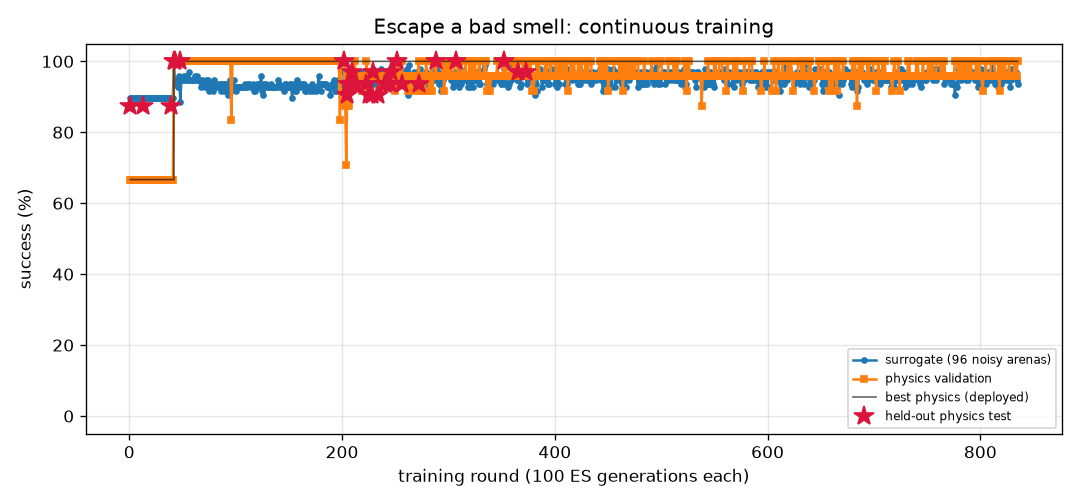
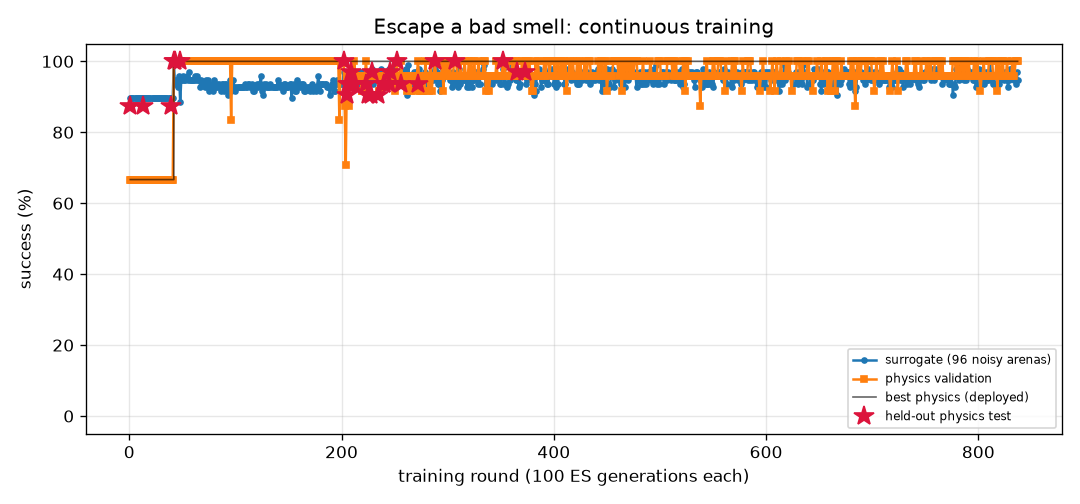
FlyLab: daily snapshot 2026-11-08
Daily entry in projects/09_flylab/training/daily/2026-11.md, plus 14 uncommitted training output file(s).

diff --git a/projects/09_flylab/training/light_avoid/REPORT.md b/projects/09_flylab/training/light_avoid/REPORT.md
@@ -1,14 +1,14 @@
 # Hide from light (`light_avoid`) — training report
 
-*Auto-generated by `train_brains.py`, last updated 2026-11-08T10:55:51.*
+*Auto-generated by `train_brains.py`, last updated 2026-11-08T11:30:01.*
 
 ![curve](curve.png)
 
 | | |
 |---|---|
-| rounds | 564 |
-| ES generations | 56400 |
-| physics runs | 13808 |
+| rounds | 568 |
+| ES generations | 56800 |
+| physics runs | 13904 |
 | status | **optimal** |
 | best brain | round 159: physics validation **100%** on 24 arenas, surrogate 100% |
 | held-out physics test | **100%** on 32 unseen arenas (95% CI 89%-100%) (errors: [14.4, 56.1, 58.0, 57.9, 57.5, 14.0, 14.4, 56.6, 56.8, 13.3, 14.1, 56.6, 57.6, 13.1, 57.3, 55.9, 57.2, 55.0, 55.2, 53.9, 55.2, 12.4, 53.8, 53.7, 14.1, 13.7, 55.0, 57.8, 56.2, 13.1, 52.8, 56.5]) |
@@ -17,10 +17,6 @@ Physics error per arena: mm gained away from source (> 6 without first approachi
 
 | round | level | gens | sigma | surrogate | physics val | val errors | test | note |
 |---:|---:|---:|---:|---:|---:|---|---:|---|
-| 525 | 3 | 52500 | 0.024 | 100% | 100% | [52.4, 54.2, 54.1, 52.0, 52.9, 52.4, 53.1, 14.5, 37.5, 13.6, 47.4, 52.6, 14.4, 53.3, 54.2, 51.7, 14.2, 53.3, 54.6, 14.4, 50.6, 49.0, 52.9, 52.0] |  |  |
-| 526 | 3 | 52600 | 0.024 | 99% | 100% | [33.9, 33.6, 34.0, 33.9, 31.3, 33.9, 34.9, 14.5, 12.9, 13.4, 8.1, 31.4, 14.4, 34.8, 35.0, 33.9, 14.2, 32.3, 35.2, 14.4, 32.6, 25.5, 34.7, 31.3] |  |  |
-| 527 | 3 | 52700 | 0.025 | 98% | 96% | [43.3, 44.1, 43.7, 44.0, 47.4, 43.4, 41.6, 14.5, 13.0, 13.4, 10.2, 47.4, 14.4, 4.1, 43.7, 43.1, 14.2, 47.1, 44.7, 14.4, 45.0, 11.2, 42.3, 47.1] |  | restart from best |
-| 528 | 3 | 52800 | 0.024 | 100% | 100% | [48.8, 50.8, 51.0, 48.8, 46.8, 48.2, 50.9, 14.5, 45.4, 13.3, 49.8, 46.7, 14.4, 45.4, 50.9, 48.5, 14.2, 47.9, 50.7, 14.4, 49.0, 47.9, 50.5, 45.7] |  |  |
 | 529 | 3 | 52900 | 0.024 | 100% | 100% | [54.4, 55.5, 55.2, 53.9, 55.2, 51.8, 53.8, 14.5, 38.3, 13.3, 54.5, 55.0, 14.4, 54.1, 55.4, 52.8, 14.2, 55.6, 55.8, 14.4, 53.7, 54.5, 53.7, 54.5] |  |  |
 | 530 | 3 | 53000 | 0.024 | 97% | 100% | [39.7, 40.8, 41.0, 39.2, 36.6, 39.3, 40.9, 14.5, 13.0, 13.4, 10.1, 36.1, 14.4, 28.3, 41.1, 40.1, 14.2, 37.4, 41.0, 14.4, 40.2, 11.2, 40.3, 35.3] |  |  |
 | 531 | 3 | 53100 | 0.026 | 98% | 96% | [46.6, 47.2, 47.4, 47.0, 43.6, 46.7, 47.2, 14.5, 13.0, 13.4, 10.2, 43.2, 14.4, 8.0, 47.4, 45.2, 14.2, 44.6, 47.4, 14.4, 44.4, 11.3, 46.8, 42.2] |  | restart from best |
@@ -57,3 +53,7 @@ Physics error per arena: mm gained away from source (> 6 without first approachi
 | 562 | 3 | 56200 | 0.024 | 100% | 100% | [57.0, 57.0, 56.8, 55.7, 58.5, 54.3, 55.1, 14.5, 53.8, 13.3, 57.5, 58.4, 14.4, 56.3, 57.6, 56.7, 14.2, 59.1, 58.1, 14.4, 55.1, 57.4, 55.2, 58.5] |  |  |
 | 563 | 3 | 56300 | 0.024 | 100% | 100% | [55.0, 56.2, 55.9, 54.9, 56.3, 55.1, 54.6, 14.5, 12.9, 13.4, 51.9, 56.1, 14.4, 54.3, 56.1, 54.5, 14.2, 56.6, 56.4, 14.4, 53.8, 53.0, 54.3, 55.6] |  | restart from best |
 | 564 | 3 | 56400 | 0.024 | 100% | 100% | [38.1, 35.5, 35.0, 36.8, 37.8, 35.8, 32.1, 14.5, 36.9, 13.3, 37.8, 38.2, 14.4, 37.8, 36.8, 36.8, 14.2, 37.7, 37.4, 14.4, 36.9, 38.1, 33.9, 38.0] |  |  |
+| 565 | 3 | 56500 | 0.024 | 97% | 100% | [44.7, 48.6, 48.1, 44.8, 49.6, 47.5, 46.0, 14.5, 49.3, 13.0, 48.3, 49.8, 14.4, 49.5, 48.2, 8.3, 14.2, 49.9, 48.5, 14.4, 8.5, 48.3, 46.3, 49.4] |  |  |
+| 566 | 3 | 56600 | 0.026 | 96% | 100% | [45.7, 59.7, 59.5, 10.1, 58.2, 56.1, 58.6, 14.5, 54.7, 13.3, 58.3, 57.9, 14.4, 56.2, 59.6, 8.9, 14.2, 58.8, 59.9, 14.4, 8.7, 58.6, 58.3, 57.2] |  |  |
+| 567 | 3 | 56700 | 0.026 | 93% | 96% | [6.2, 49.4, 49.0, 7.3, 48.6, 4.5, 47.9, 14.5, 46.3, 13.2, 47.1, 48.3, 14.4, 47.8, 49.4, 9.0, 14.2, 49.0, 49.8, 14.4, 8.7, 47.5, 47.5, 47.7] |  | restart from best |
+| 568 | 3 | 56800 | 0.024 | 100% | 100% | [47.0, 47.2, 46.9, 47.1, 50.3, 47.7, 44.9, 14.5, 39.5, 13.4, 49.0, 50.1, 14.4, 48.5, 47.2, 49.0, 14.2, 50.1, 47.6, 14.4, 48.4, 48.9, 45.8, 50.0] |  |  |

diff --git a/projects/09_flylab/training/odor_avoid/REPORT.md b/projects/09_flylab/training/odor_avoid/REPORT.md
@@ -1,14 +1,14 @@
 # Escape a bad smell (`odor_avoid`) — training report
 
-*Auto-generated by `train_brains.py`, last updated 2026-11-08T10:55:11.*
+*Auto-generated by `train_brains.py`, last updated 2026-11-08T11:11:54.*
 
 ![curve](curve.png)
 
 | | |
 |---|---|
-| rounds | 835 |
-| ES generations | 83500 |
-| physics runs | 17346 |
+| rounds | 837 |
+| ES generations | 83700 |
+| physics runs | 17394 |
 | status | **optimal** |
 | best brain | round 373: physics validation **100%** on 24 arenas, surrogate 97% |
 | held-out physics test | **97%** on 32 unseen arenas (95% CI 84%-99%) (errors: [62.0, 57.4, 62.6, 61.9, 59.0, 61.6, 56.5, 60.7, 31.7, 60.9, 63.1, 57.1, 61.1, 62.1, 61.5, 60.2, 62.2, 55.2, 62.1, 54.2, 61.3, 62.0, 58.0, 61.9, 59.8, 56.5, 56.3, 56.4, 56.3, 57.7, 61.9, 32.4]) |
@@ -17,8 +17,6 @@ Physics error per arena: mm gained away from source (> 6 without first approachi
 
 | round | level | gens | sigma | surrogate | physics val | val errors | test | note |
 |---:|---:|---:|---:|---:|---:|---|---:|---|
-| 796 | 3 | 79600 | 0.027 | 95% | 100% | [63.4, 59.1, 58.1, 56.6, 62.1, 62.4, 62.1, 59.2, 60.1, 60.9, 58.9, 59.8, 52.6, 55.0, 43.2, 62.8, 60.4, 62.6, 53.9, 54.4, 60.2, 63.2, 57.4, 62.8] |  |  |
-| 797 | 3 | 79700 | 0.027 | 96% | 96% | [63.4, 61.6, 55.9, 58.5, 62.4, 62.8, 62.1, 63.1, 60.7, 63.0, 60.0, 61.6, 53.0, 56.7, 33.4, 62.6, 61.4, 62.7, 55.1, 56.0, 61.5, 63.2, 58.5, 63.5] |  | restart from best |
 | 798 | 3 | 79800 | 0.026 | 93% | 96% | [59.9, 56.1, 55.6, 59.1, 58.0, 38.2, 60.6, 55.9, 60.7, 28.1, 2.4, 60.5, 39.8, 53.3, 14.5, 41.2, 60.5, 35.2, 48.9, 58.4, 60.6, 24.3, 59.3, 27.5] |  |  |
 | 799 | 3 | 79900 | 0.028 | 94% | 100% | [62.2, 57.1, 56.4, 60.7, 62.3, 62.1, 60.8, 60.2, 62.2, 62.3, 62.2, 61.8, 54.8, 53.6, 50.6, 62.5, 62.2, 62.1, 55.0, 57.1, 61.9, 61.9, 60.7, 60.1] |  |  |
 | 800 | 3 | 80000 | 0.028 | 97% | 96% | [57.9, 55.3, 53.6, 51.8, 59.3, 57.1, 57.9, 47.9, 57.7, 47.9, 28.9, 58.6, 46.6, 53.0, 0.0, 56.3, 59.3, 54.5, 47.7, 55.1, 58.7, 56.2, 55.3, 56.6] |  |  |
@@ -57,3 +55,5 @@ Physics error per arena: mm gained away from source (> 6 without first approachi
 | 833 | 3 | 83300 | 0.026 | 97% | 96% | [61.6, 60.8, 55.8, 61.0, 62.0, 62.0, 61.7, 29.4, 61.9, 60.6, 55.1, 61.7, 51.4, 55.2, 44.3, 60.8, 61.7, 56.2, 55.0, 56.6, 61.8, 60.9, 60.6, 60.7] |  | restart from best |
 | 834 | 3 | 83400 | 0.026 | 95% | 96% | [63.2, 59.0, 56.4, 61.7, 62.4, 61.8, 62.0, 35.6, 61.3, 60.2, 61.3, 61.9, 55.0, 56.1, 45.4, 62.9, 62.3, 60.7, 55.5, 55.8, 62.0, 60.2, 59.4, 52.9] |  |  |
 | 835 | 3 | 83500 | 0.027 | 94% | 100% | [62.1, 59.7, 56.5, 59.9, 62.6, 62.8, 61.9, 60.9, 62.0, 62.6, 62.6, 62.0, 55.3, 56.7, 51.4, 62.5, 62.2, 62.9, 54.3, 56.9, 62.1, 61.8, 58.4, 61.4] |  |  |
+| 836 | 3 | 83600 | 0.028 | 97% | 100% | [58.9, 51.0, 54.5, 51.5, 59.9, 55.1, 54.3, 48.5, 54.8, 53.1, 51.2, 59.6, 49.2, 54.6, 45.2, 59.1, 59.8, 56.8, 51.5, 51.1, 59.2, 55.5, 51.5, 56.1] |  |  |
+| 837 | 3 | 83700 | 0.026 | 95% | 100% | [62.9, 56.6, 56.8, 55.5, 62.9, 61.8, 61.1, 28.9, 61.2, 58.3, 62.4, 62.6, 55.0, 56.9, 50.9, 61.5, 62.3, 60.6, 54.9, 57.1, 62.6, 60.7, 55.6, 57.5] |  | restart from best |

diff --git a/projects/09_flylab/training/light_seek/REPORT.md b/projects/09_flylab/training/light_seek/REPORT.md
@@ -1,14 +1,14 @@
 # Walk toward light (`light_seek`) — training report
 
-*Auto-generated by `train_brains.py`, last updated 2026-11-07T23:30:08.*
+*Auto-generated by `train_brains.py`, last updated 2026-11-08T11:27:03.*
 
 ![curve](curve.png)
 
 | | |
 |---|---|
-| rounds | 454 |
-| ES generations | 45400 |
-| physics runs | 7776 |
+| rounds | 455 |
+| ES generations | 45500 |
+| physics runs | 7800 |
 | status | **optimal** |
 | best brain | round 375: physics validation **100%** on 24 arenas, surrogate 100% |
 | held-out physics test | **100%** on 32 unseen arenas (95% CI 89%-100%) (errors: [0.57, 0.54, 0.53, 0.57, 0.55, 0.56, 0.59, 0.56, 0.53, 0.56, 0.71, 0.56, 0.55, 0.54, 0.53, 0.54, 0.54, 0.55, 0.52, 0.65, 0.64, 0.7, 0.58, 0.57, 0.6, 0.62, 0.55, 0.88, 0.54, 0.52, 0.62, 0.57]) |
@@ -17,7 +17,6 @@ Physics error per arena: mm from target at the end (< 1.5 and standing still = s
 
 | round | level | gens | sigma | surrogate | physics val | val errors | test | note |
 |---:|---:|---:|---:|---:|---:|---|---:|---|
-| 415 | 3 | 41500 | 0.024 | 100% | 100% | [1.04, 0.63, 0.75, 0.56, 0.59, 0.59, 0.62, 0.57, 0.73, 0.57, 0.52, 0.56, 0.65, 1.07, 0.99, 0.56, 0.66, 0.57, 0.68, 0.55, 1.11, 0.61, 0.72, 0.53] |  | restart from best |
 | 416 | 3 | 41600 | 0.024 | 100% | 100% | [0.61, 0.61, 0.64, 1.18, 0.6, 0.68, 0.7, 0.64, 0.58, 0.6, 0.69, 0.58, 0.57, 0.65, 0.7, 0.57, 0.65, 0.65, 0.62, 0.63, 0.75, 0.61, 0.63, 0.64] |  |  |
 | 417 | 3 | 41700 | 0.024 | 100% | 100% | [0.79, 0.75, 0.64, 0.79, 0.87, 0.73, 0.68, 0.65, 0.74, 0.78, 0.65, 0.54, 0.76, 0.71, 0.98, 0.69, 0.69, 0.67, 0.79, 0.67, 0.76, 0.53, 0.76, 0.73] |  |  |
 | 418 | 3 | 41800 | 0.024 | 100% | 100% | [0.57, 0.82, 0.55, 0.86, 0.56, 0.57, 0.87, 0.58, 0.56, 0.87, 0.97, 0.83, 0.52, 0.6, 0.78, 0.9, 0.6, 0.56, 0.78, 0.65, 0.57, 0.99, 0.97, 0.92] |  |  |
@@ -57,3 +56,4 @@ Physics error per arena: mm from target at the end (< 1.5 and standing still = s
 | 452 | 3 | 45200 | 0.024 | 100% | 100% | [0.61, 0.54, 0.54, 1.47, 0.55, 0.59, 0.61, 0.58, 0.54, 0.58, 0.65, 0.58, 0.54, 0.54, 0.59, 0.56, 0.59, 0.57, 0.55, 0.61, 0.69, 0.85, 0.53, 0.53] |  |  |
 | 453 | 3 | 45300 | 0.024 | 100% | 100% | [1.04, 0.72, 0.56, 0.61, 0.52, 0.52, 0.59, 0.53, 0.61, 0.57, 0.64, 0.54, 0.83, 0.53, 0.56, 0.52, 0.57, 0.55, 0.6, 0.6, 0.5, 0.79, 0.5, 0.56] |  |  |
 | 454 | 3 | 45400 | 0.024 | 100% | 96% | [0.94, 0.46, 0.51, 0.92, 0.53, 0.45, 1.83, 0.47, 0.54, 0.58, 0.47, 0.46, 0.47, 1.11, 0.92, 0.61, 0.57, 0.51, 0.49, 0.45, 0.58, 0.53, 0.52, 0.55] |  |  |
+| 455 | 3 | 45500 | 0.024 | 100% | 100% | [0.63, 0.43, 0.46, 0.52, 0.51, 0.68, 0.46, 0.43, 0.44, 0.43, 0.54, 0.53, 0.46, 0.58, 0.43, 0.43, 0.48, 0.44, 0.49, 0.47, 0.53, 0.68, 0.5, 0.58] |  | restart from best |

diff --git a/projects/09_flylab/training/TRAINING.md b/projects/09_flylab/training/TRAINING.md
@@ -1,6 +1,6 @@
 # FlyLab brains — continuous training log
 
-*Auto-generated by `train_brains.py`, last updated 2026-11-08T10:55:51.*
+*Auto-generated by `train_brains.py`, last updated 2026-11-08T11:30:01.*
 
 Every skill has its own brain and its own training process: surrogate ES rounds, physics validation in MuJoCo, keep-the-best selection, and a held-out physics test that is never used for selection. See each skill's report for its full round-by-round history. Mastery is progressive: passing a level (100% physics validation, >=95% surrogate) doubles the validation and test arena sets; a brain is **optimal** once it holds up at level 3 (>=95% of 24 validation arenas) AND scores >=90% on the 32 held-out test arenas. Test columns show 95% Wilson confidence intervals.
 
@@ -10,6 +10,6 @@ Every skill has its own brain and its own training process: surrogate ES rounds,
 | [Turn in place](turn/REPORT.md) | 925 | 92500 | 22446 | 100% | 100% of 24 | 97% of 32 (CI 84-99%) | **optimal** |
 | [Go to a location](goto/REPORT.md) | 259 | 25900 | 6166 | 100% | 100% of 24 | 100% of 32 (CI 89-100%) | **optimal** |
 | [Find food by smell](odor_seek/REPORT.md) | 212 | 21200 | 4518 | 100% | 100% of 24 | 100% of 32 (CI 89-100%) | **optimal** |
-| [Escape a bad smell](odor_avoid/REPORT.md) | 835 | 83500 | 17346 | 97% | 100% of 24 | 97% of 32 (CI 84-99%) | **optimal** |
-| [Walk toward light](light_seek/REPORT.md) | 454 | 45400 | 7776 | 100% | 100% of 24 | 100% of 32 (CI 89-100%) | **optimal** |
-| [Hide from light](light_avoid/REPORT.md) | 564 | 56400 | 13808 | 100% | 100% of 24 | 100% of 32 (CI 89-100%) | **optimal** |
+| [Escape a bad smell](odor_avoid/REPORT.md) | 837 | 83700 | 17394 | 97% | 100% of 24 | 97% of 32 (CI 84-99%) | **optimal** |
+| [Walk toward light](light_seek/REPORT.md) | 455 | 45500 | 7800 | 100% | 100% of 24 | 100% of 32 (CI 89-100%) | **optimal** |
+| [Hide from light](light_avoid/REPORT.md) | 568 | 56800 | 13904 | 100% | 100% of 24 | 100% of 32 (CI 89-100%) | **optimal** |

diff --git a/projects/09_flylab/training/daily/2026-11.md b/projects/09_flylab/training/daily/2026-11.md
@@ -1,0 +1,18 @@
+# FlyLab daily snapshots, November 2026
+
+Written by daily_commit.py once a day.
+
+## 2026-11-08 (Sun)
+
+| brain | state | level | physics val | test | round |
+|---|---|---|---|---|---|
+| walk_forward | optimal | 3 | 100% of 24 | 100% | 323 |
+| turn | optimal | 3 | 100% of 24 | 97% | 925 |
+| goto | optimal | 3 | 100% of 24 | 100% | 259 |
+| odor_seek | optimal | 3 | 100% of 24 | 100% | 212 |
+| odor_avoid | optimal | 3 | 100% of 24 | 97% | 837 |
+| light_seek | optimal | 3 | 100% of 24 | 100% | 455 |
+| light_avoid | optimal | 3 | 100% of 24 | 100% | 568 |
+
+- training supervisor: running
+- commits in the last 24 h: 17 (latest `777cad2 11:38 FlyLab: guaranteed daily local commit (daily_commit.py)`)
